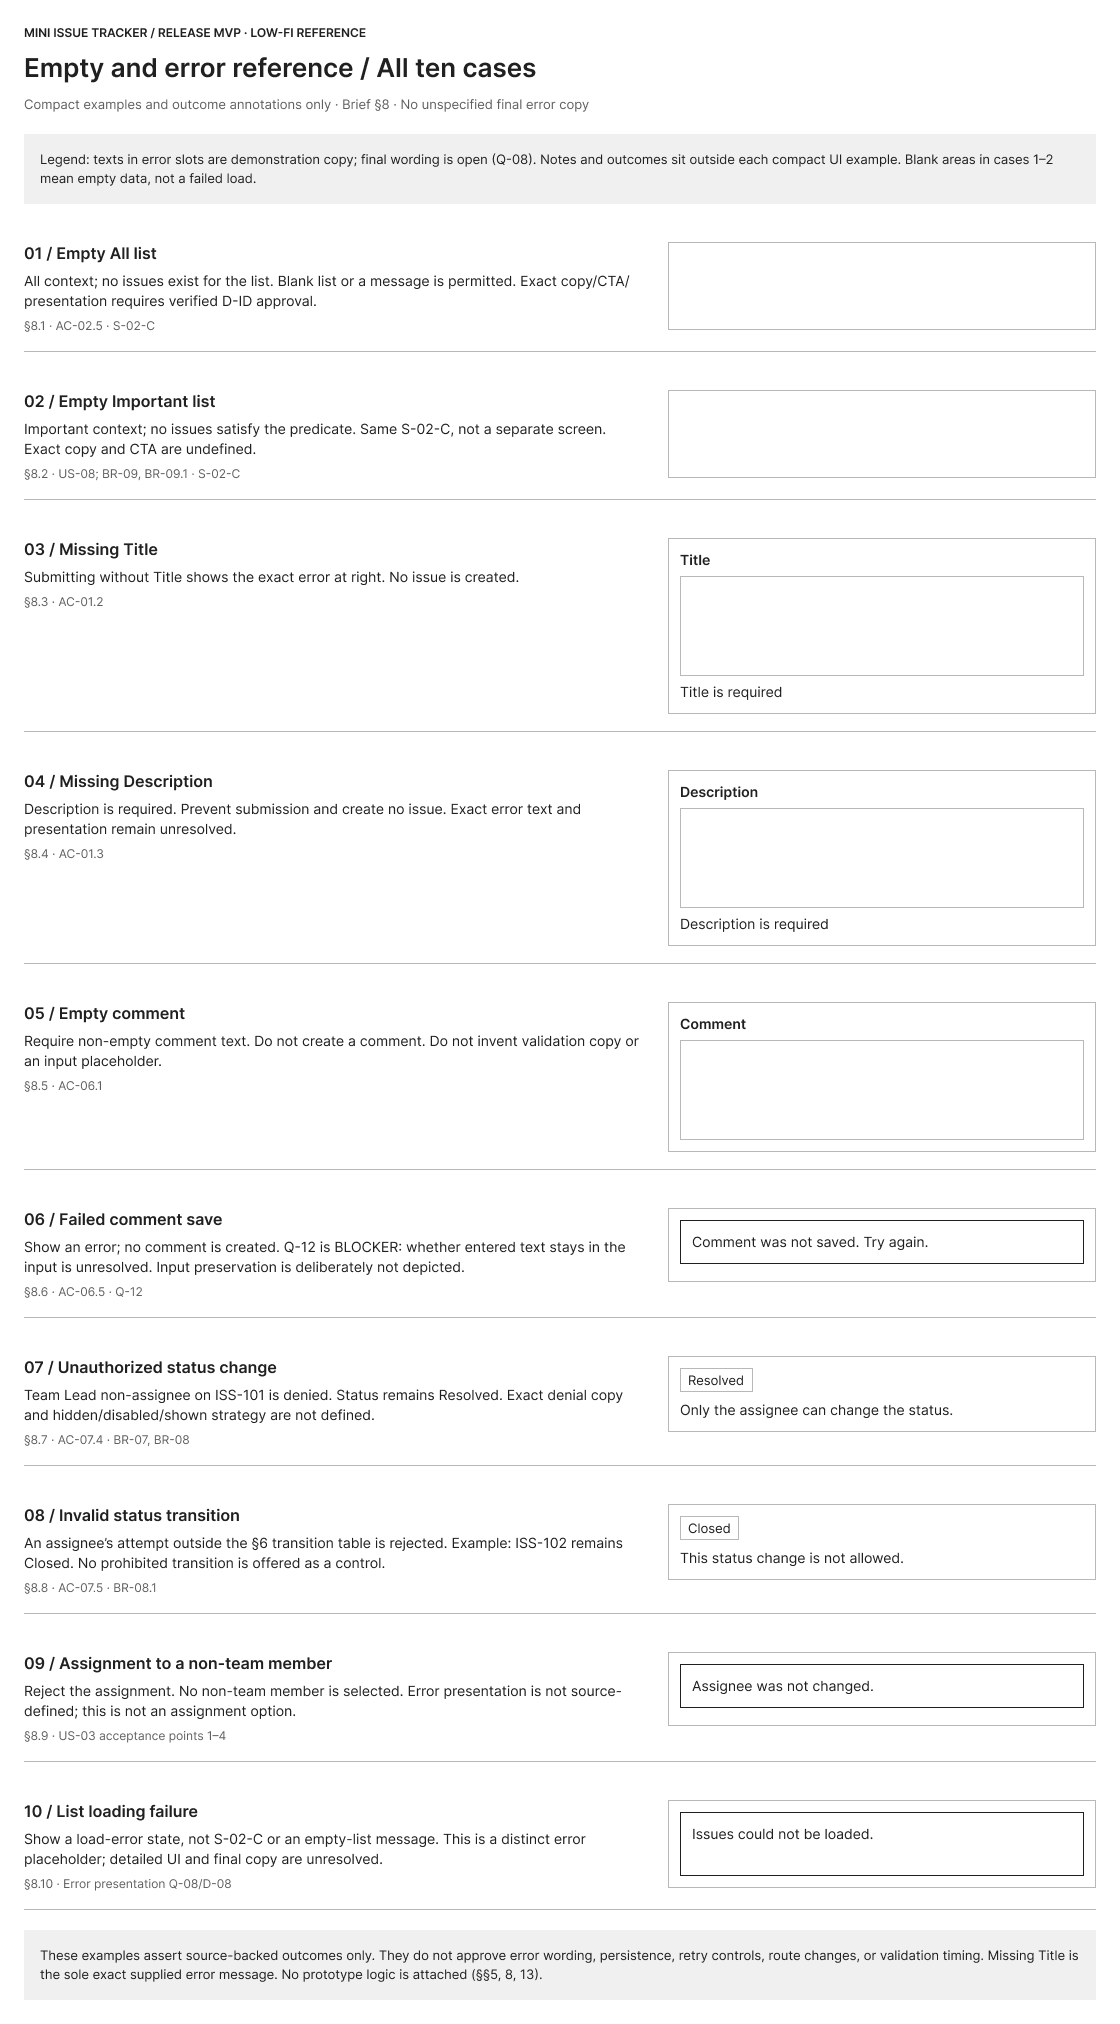
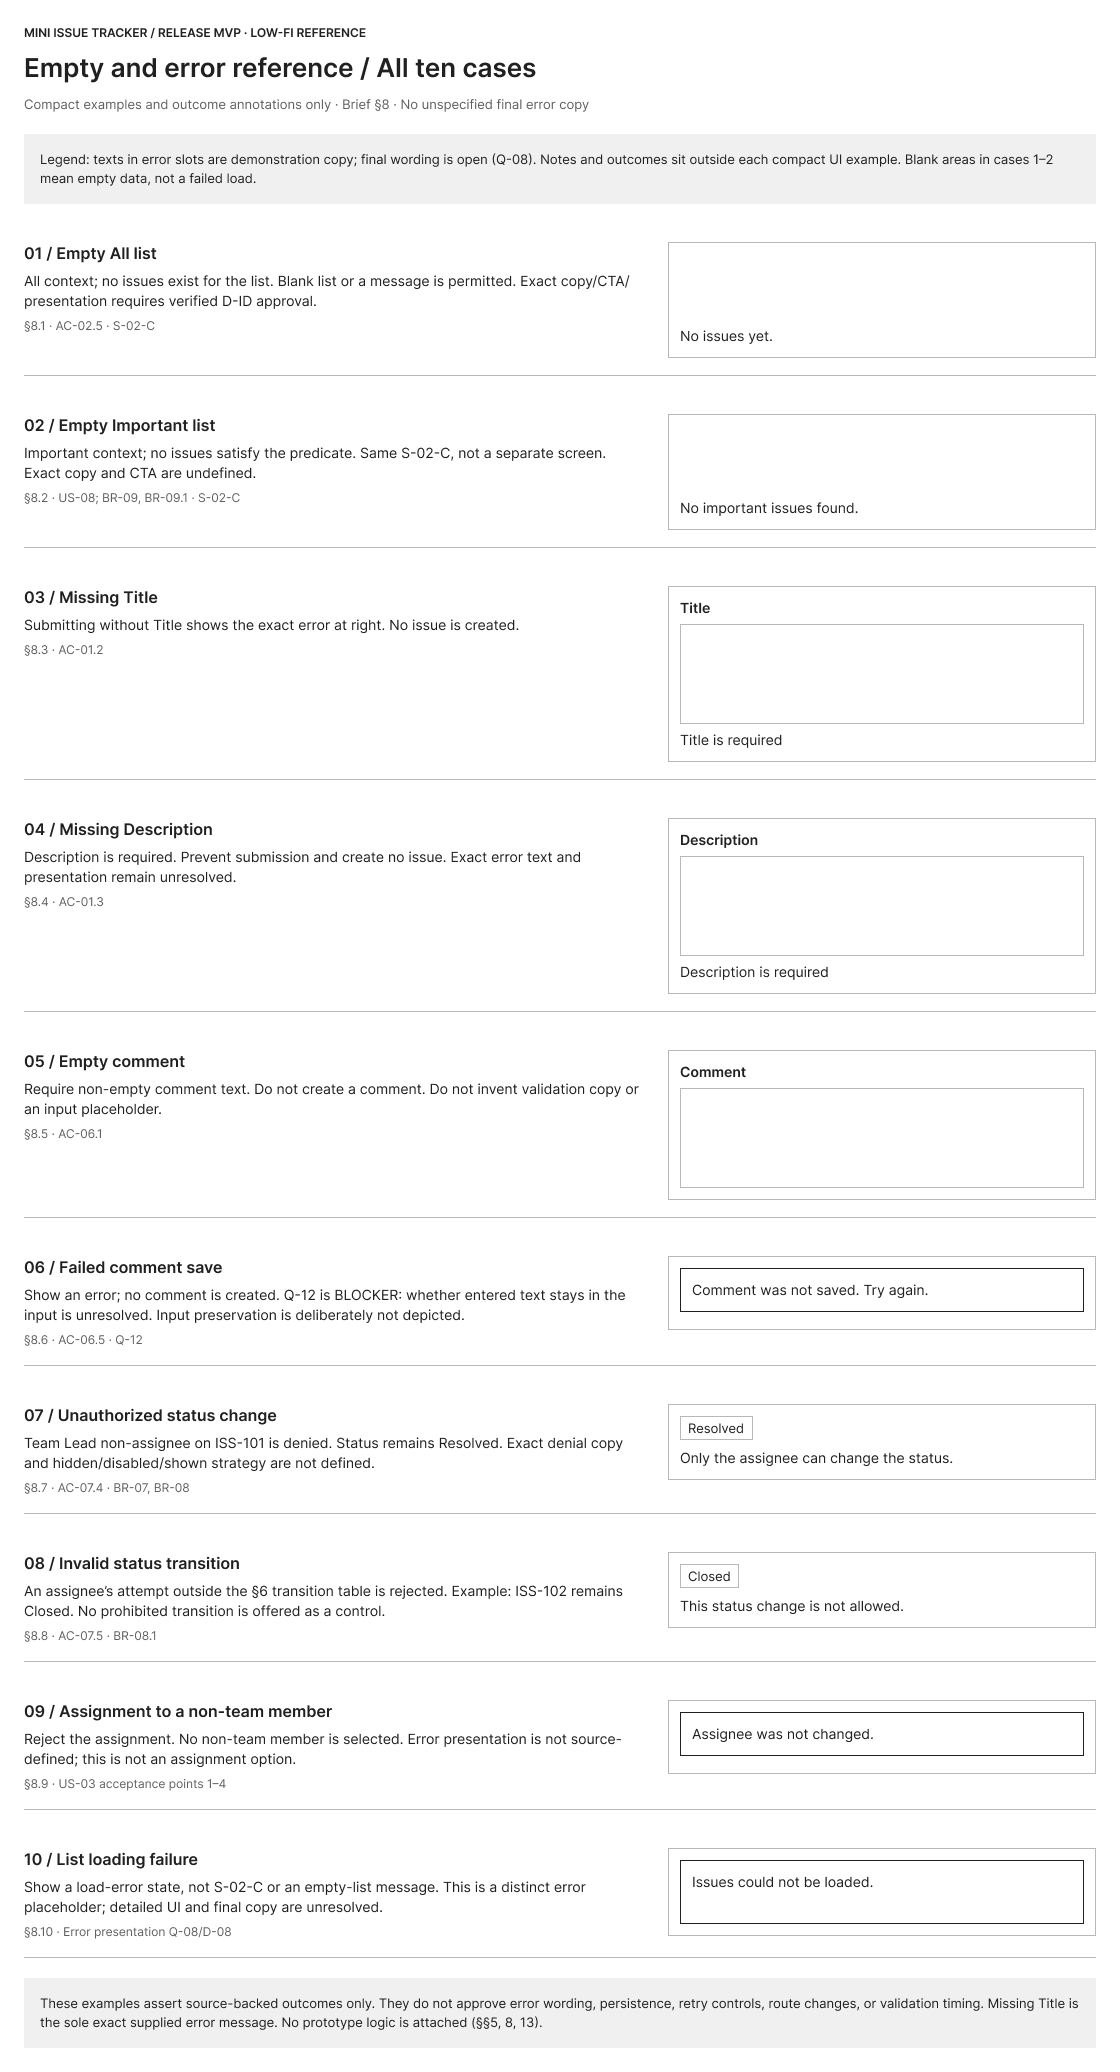
design: empty-state messages for All and Important; brief v1.1 fixtures ISS-101..107

diff --git a/03_figma_prep/05_Figma_Brief_v1.0.md b/03_figma_prep/05_Figma_Brief_v1.0.md
@@ -20,21 +20,22 @@ A neutral boundary block labeled “Authentication entry — mechanism TBD”. N
 ## S-02 — Issues List [US-02; US-05; US-08; D-01]
 Header: Issues List and Create Issue action. Tabs: All Issues / Important Issues. Rows show ID, Title, Status, Priority, Assignee if assigned. Title opens details. No row-selection checkboxes.
 
-Show S-02-A All Issues, S-02-B Important Issues and S-02-C Empty. These are states of ONE product screen. They may use separate frames for demonstration. Empty All Issues means zero registered issues.
+Show S-02-A All Issues, S-02-B Important Issues and S-02-C Empty. These are states of ONE product screen. They may use separate frames for demonstration. Empty All Issues means zero registered issues (demonstration copy: "No issues yet."). Empty Important means issues exist but none matches the Important rule (demonstration copy: "No important issues found."); it is the same S-02 list state, not a new screen.
 
 Important = (priority is High or Critical) AND status != Closed. Resolved High/Critical issues stay included. Low, Normal, unset priority and every Closed issue are excluded. Reuse the same issue IDs/data across list states.
 
-Sample rows:
-- ISS-001 Open / Critical / Member A
-- ISS-002 In Progress / High / Member B
-- ISS-003 Resolved / High / Member A
-- ISS-004 Closed / Critical / Member B
-- ISS-005 Open / Normal / unassigned
-- ISS-006 Open / Not Set / unassigned
-- ISS-007 Resolved / Critical / Lead
-- ISS-008 In Progress / Low / Member A
+Sample rows (v1.1 — the fixture set actually used in the Figma mockup and prototype):
+- ISS-101 Resolved / High / Member A
+- ISS-102 Closed / Critical / Member B
+- ISS-103 Open / Not Set / unassigned
+- ISS-104 In Progress / Normal / Member A
+- ISS-105 Open / Low / Member B
+- ISS-106 Open / Not Set / unassigned — prepared new-issue result after Create [D-10]
+- ISS-107 Open / Critical / Member B
 
-Important contains ISS-001, ISS-002, ISS-003 and ISS-007 only.
+Important contains ISS-101 and ISS-107 only (ISS-106 is shown only as the post-create result).
+
+> v1.0 of this brief listed an illustrative set ISS-001…ISS-008. The mockup was built with ISS-101…ISS-105 and extended on 2026-11-24 with ISS-106 (Create result, D-10) and ISS-107 (Critical + Open, so that the Critical branch of the Important rule is visible). The Important rule itself is unchanged.
 
 ## M-01 — Create Issue overlay [US-01; D-01/04]
 Inputs: Title, required; Description, required multiline. Actions: Create and Cancel. Only these two issue fields are editable here.
@@ -46,7 +47,7 @@ Show default, missing-Title and missing-Description examples. Invalid submission
 ## S-03 — Issue Details [US-02–US-07]
 Show ID, Title, Description, Status, Priority, Assignee, Author, Created at. Unassigned/Not Set are empty-value display states, not extra metadata. Provide Return to Issues List.
 
-Keep Assignee, Priority and Status controls together without a decorative “Control Actions Area” heading. Do not duplicate editable and read-only versions of the same value unnecessarily. Canonical example: Lead viewing ISS-003 assigned to Member A; assignment and priority enabled, status disabled.
+Keep Assignee, Priority and Status controls together without a decorative “Control Actions Area” heading. Do not duplicate editable and read-only versions of the same value unnecessarily. Canonical examples: Lead viewing unassigned ISS-103 — assignment and priority enabled, each with an Apply action (`Reference · Permissions and controls`); Lead who is not the assignee viewing ISS-105 — status controls disabled (`S-03 · Team Lead non-assignee`).
 
 Only Lead can assign/reassign one team member and set/change priority [US-03; BR-06; D-04]. Member controls are disabled [D-05]. Selection is applied with an Apply action adjacent to that control; the visible result remains on S-03 [D-06].
 

diff --git a/04_design/06_Review_Report.md b/04_design/06_Review_Report.md
@@ -45,7 +45,7 @@
 | D-05 | PARTIAL | PASS | макет | disabled або текстовий вигляд заборонених контролів (D-05 допускає обидва) |
 | D-07 | FAIL | PARTIAL | прототип | цільова поведінка погоджена (D-07); у прототипі `Return` → S-02-A — задокументоване обмеження Starter (DEF-14) |
 | UX-03 / DEF-12 | дефект | закрито | прототип | `Cancel` і клік по фону закривають M-01 (D-09) |
-| UX-04 | зауваження | ACCEPTED (частково) | документи + макет | у Screen Map і Contracts (DP-05) розрізнено «немає issue взагалі» (All) і «немає важливих issue» (Important). У Figma є кадр S-02-C (порожній All) і випадок 02 у `REF_empty_error_cases.png` (порожній Important, той самий S-02-C); текст повідомлення в макеті не намальовано, рекомендовані тексти демонстраційні (Q-08) |
+| UX-04 | зауваження | закрито | макет | S-02-C показує `No issues yet.` (порожній All); випадок 02 у `REF_empty_error_cases.png` показує `No important issues found.` (порожній Important, той самий S-02-C). Тексти демонстраційні (Q-08) |
 | UX-05 | дефект | закрито | макет | підпис `Add Comment` |
 | D-06 | NV | PASS | макет | `REF_permissions_4_contexts.png`: біля assignee і priority намальовано `Apply` (DEF-25 закрито); зміна статусу кліком по допустимому переході відповідає D-06 |
 

diff --git a/02_architecture/02_Screen_Map.md b/02_architecture/02_Screen_Map.md
@@ -538,7 +538,7 @@ S-03 → S-03 (без зміни даних)
 
 2. Жоден issue не відповідає критеріям High/Critical та status ≠ Closed.
 
-3. Відображається окремий стан порожнього списку Important (той самий екран S-02, не нова сторінка) з іншим демонстраційним текстом (рекомендовано: `No important issues found.`; для All — `No issues yet.`; точні тексти не визначені джерелом, Q-08). Він пояснює, що issue в системі є, але в Important їх немає (DP-05).
+3. Відображається окремий стан порожнього списку Important (той самий екран S-02, не нова сторінка) з іншим демонстраційним текстом: `No important issues found.` (для All — `No issues yet.`, кадр S-02-C); обидва показано в макеті (`S-02-C_empty_list.png`, `REF_empty_error_cases.png`, випадки 01–02); точні тексти не визначені джерелом (Q-08). Він пояснює, що issue в системі є, але в Important їх немає (DP-05).
 
 Очікуваний результат: порожній список не є помилкою сам по собі. З All можна відкрити M-01 для створення issue; повернення до All з Important виконується перемиканням стану списку.
 
